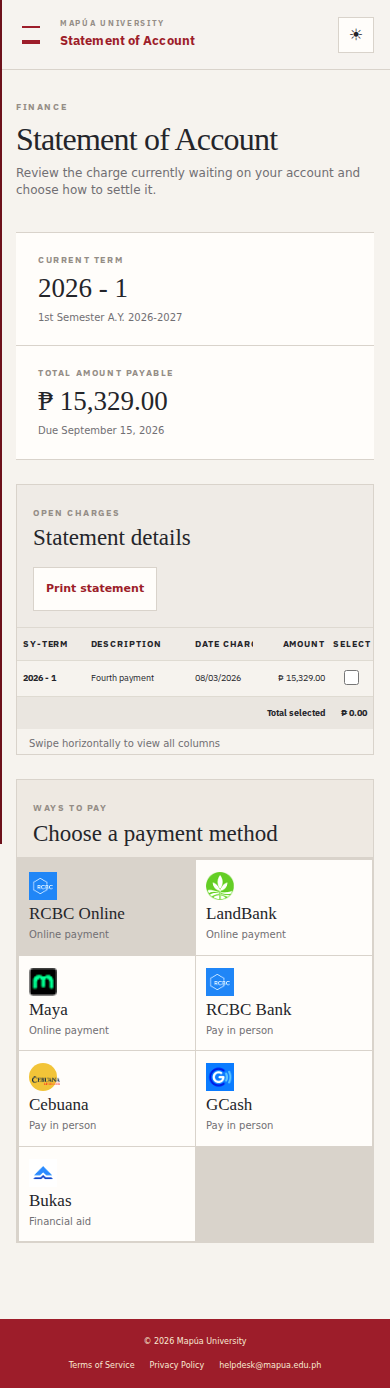
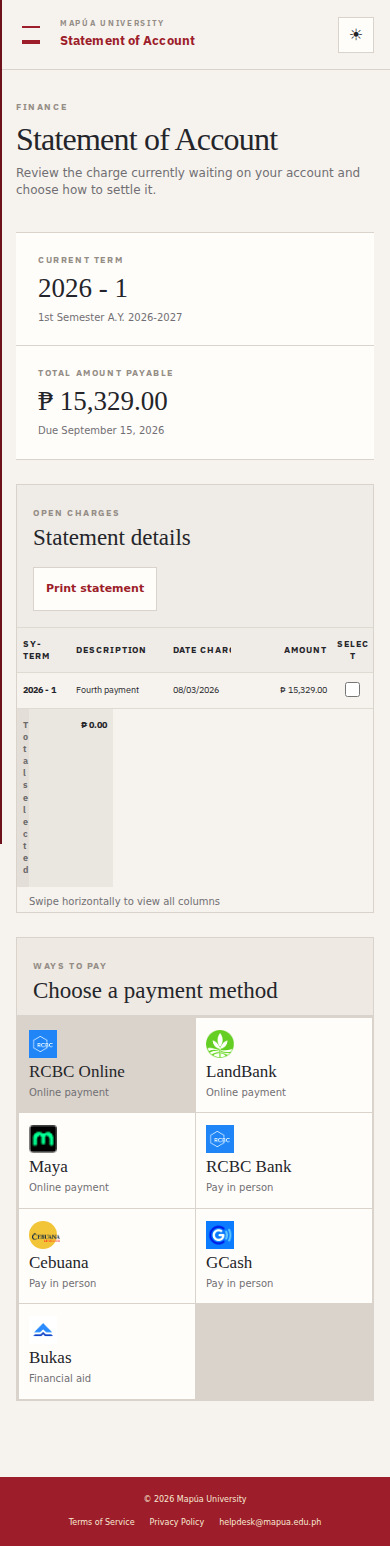
Fix mobile SOA amount and curriculum wrapping

diff --git a/mobile-fixes.css b/mobile-fixes.css
@@ -587,7 +587,8 @@ html[data-theme="dark"] .content .mobile-class .class-block {
     color: var(--ink) !important;
     font-weight: 700;
     line-height: 1.35;
-    overflow-wrap: anywhere;
+    word-break: normal;
+    overflow-wrap: break-word;
   }
 
   html[data-theme="dark"] .content .curriculum-table td:nth-child(4),
@@ -1117,18 +1118,22 @@ html[data-theme="dark"] .content.schedule-full-view .schedule-table .class-block
     }
 
     .content .soa-table table th:nth-child(1),
-    .content .soa-table table td:nth-child(1) { width: 20% !important; }
+    .content .soa-table table td:nth-child(1) { width: 15% !important; }
     .content .soa-table table th:nth-child(2),
-    .content .soa-table table td:nth-child(2) { width: 31% !important; }
+    .content .soa-table table td:nth-child(2) { width: 27% !important; }
     .content .soa-table table th:nth-child(3),
-    .content .soa-table table td:nth-child(3) { width: 19% !important; white-space: nowrap !important; }
+    .content .soa-table table td:nth-child(3) { width: 18% !important; white-space: nowrap !important; }
     .content .soa-table table th:nth-child(5),
-    .content .soa-table table td:nth-child(5) { width: 23% !important; white-space: nowrap !important; }
+    .content .soa-table table td:nth-child(5) {
+      width: 76px !important;
+      min-width: 76px !important;
+      white-space: nowrap !important;
+    }
     .content .soa-table table th:nth-child(6),
     .content .soa-table table td:nth-child(6) {
-      width: 42px !important;
-      min-width: 42px !important;
-      max-width: 42px !important;
+      width: 30px !important;
+      min-width: 30px !important;
+      max-width: 30px !important;
       padding-inline: 2px !important;
       text-align: center;
     }
@@ -1171,6 +1176,35 @@ html[data-theme="dark"] .content.schedule-full-view .schedule-table .class-block
     html[data-theme="dark"] .content .soa-table table th,
     html[data-theme="dark"] .content .soa-table table td {
       color: var(--ink) !important;
+    }
+
+    .content .soa-table table .table-total td.amount {
+      min-width: 0 !important;
+      width: auto !important;
+      white-space: nowrap !important;
+      word-break: normal !important;
+      overflow-wrap: normal !important;
+      text-align: right !important;
+    }
+
+    .content .soa-table table .table-total {
+      display: grid !important;
+      grid-template-columns: minmax(0, 1fr) 96px !important;
+      width: 100% !important;
+    }
+
+    .content .soa-table table .table-total td:first-child {
+      grid-column: 1;
+      width: auto !important;
+    }
+
+    .content .soa-table table .table-total td.amount {
+      grid-column: 2;
+      width: auto !important;
+    }
+
+    .content .soa-table table .table-total td:nth-child(3) {
+      display: none !important;
     }
 
     .content .payment-options .table-title {
